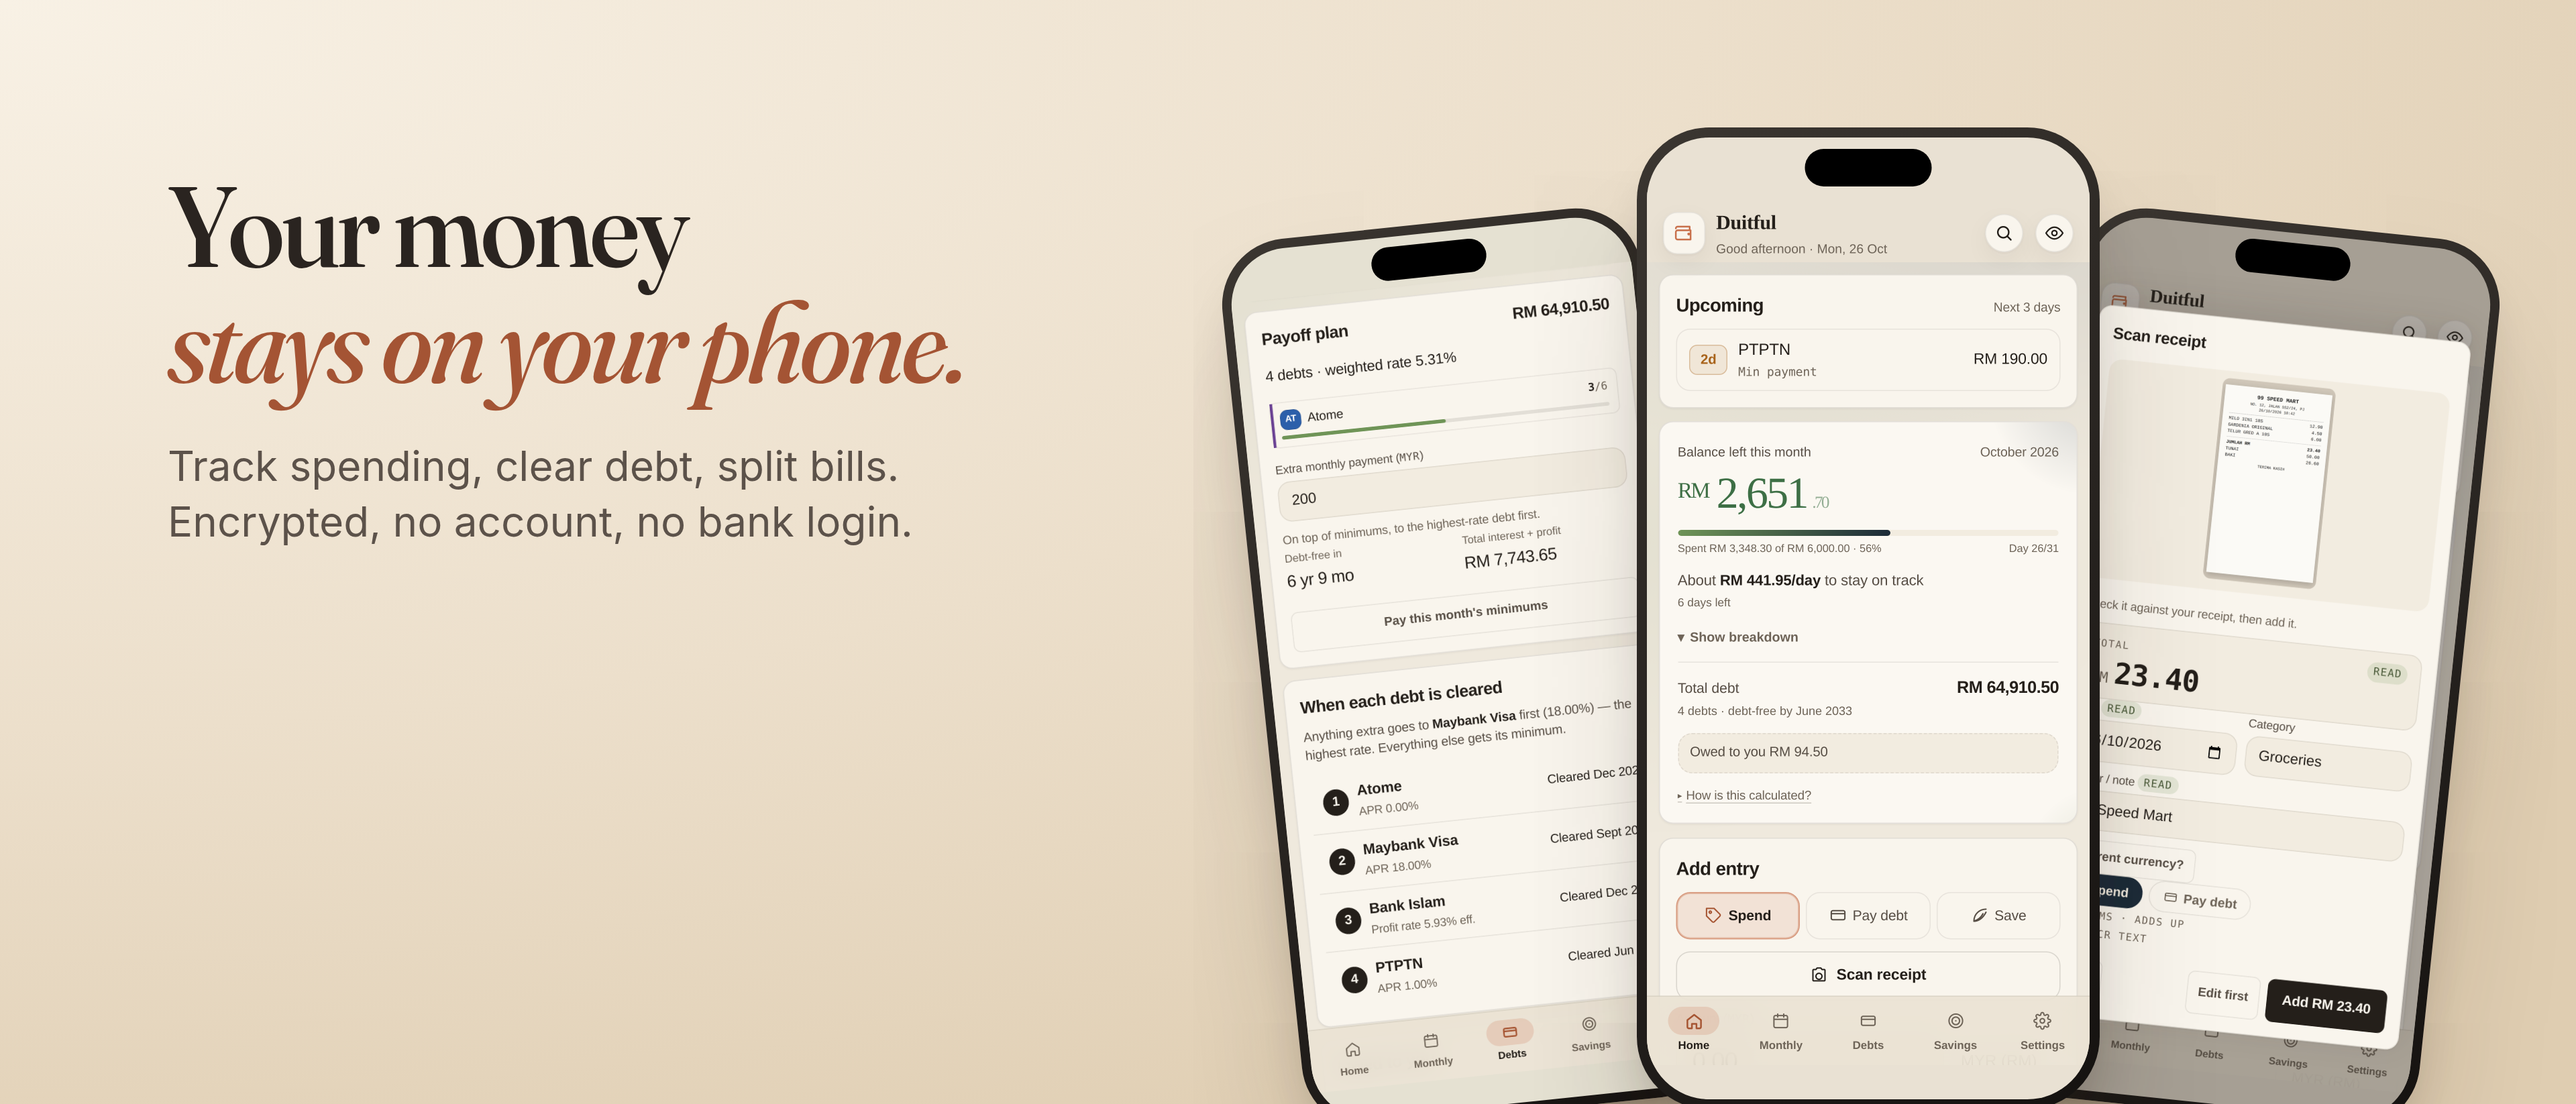
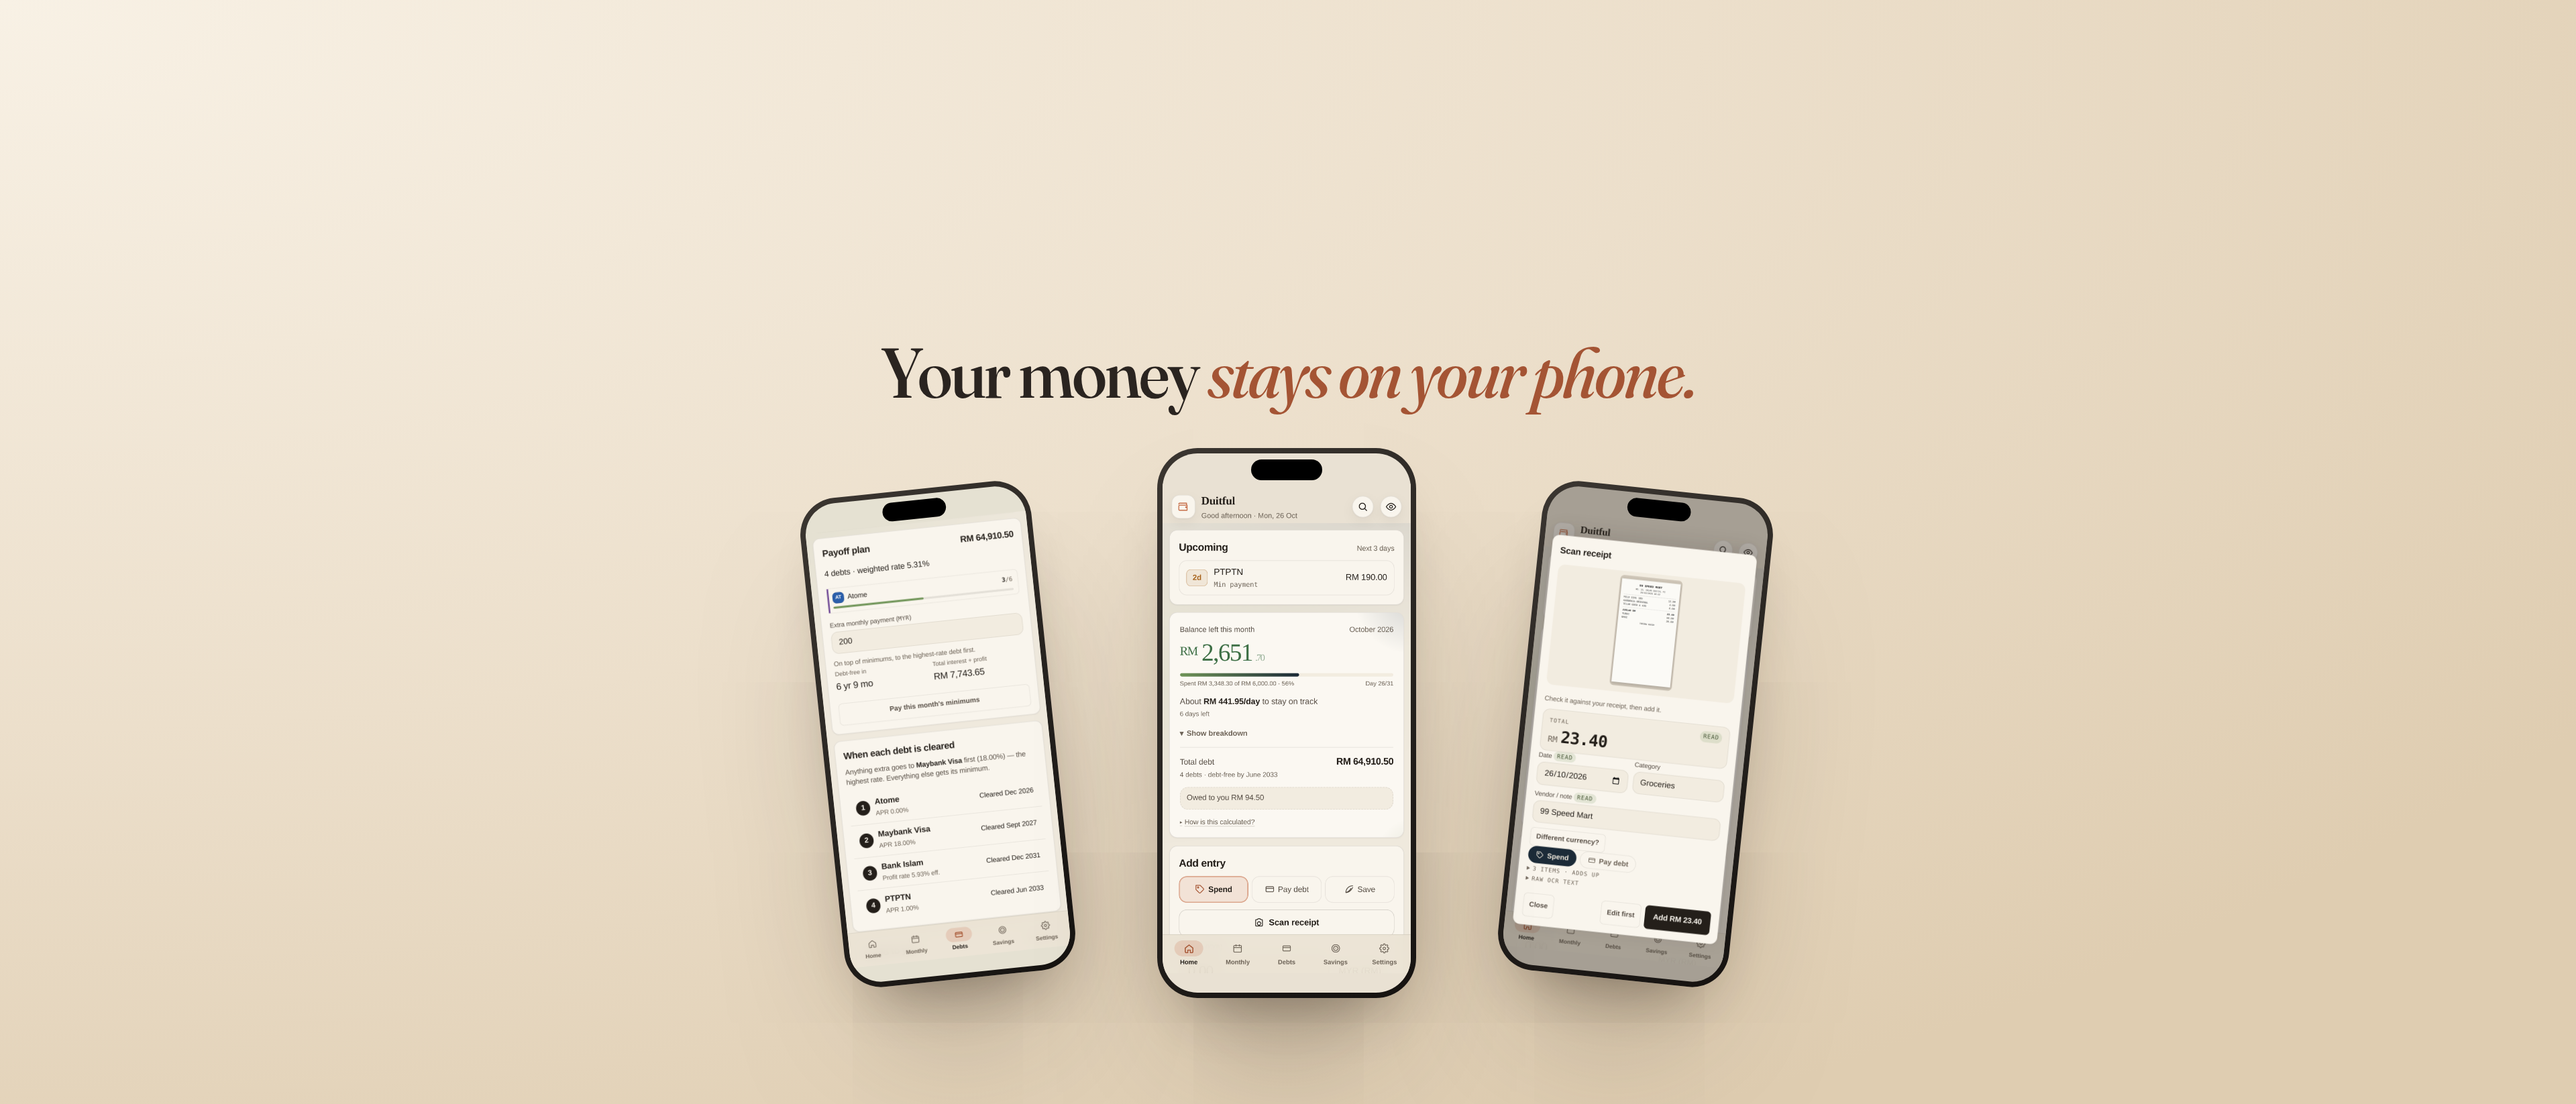
Creative assets: lay out on Apple's Art Safe Areas; add 16:9 universal
Apple's Creative Assets template (Figma) marks an Art Safe Area per
frame, the only region guaranteed to survive each device's crop:
header 1646x661 at (1097,493), search 2168x1030 at (836,765),
universal 1402x962 at (1921,660). The first header put its headline at
the far left and the search card its headline at the top, both outside
it. Now the line and the readable top of each screen sit inside the
safe area, centred; phones' lower halves and the background are bleed.
Adds universal-16x9.png (5244x2950) usable for both placements.
DEBUG=1 draws the safe box.

Claude-Session: https://claude.ai/code/session_01MxM2QQfV3Bj1xYaZMMnaMN

diff --git a/marketing/app-store/README.md b/marketing/app-store/README.md
@@ -60,19 +60,23 @@ App Store has no equivalent slot. Regenerate with
 
 ## Creative assets (optional, iOS/iPadOS 27+)
 
-From [App Store asset best practices](https://developer.apple.com/app-store/asset-best-practices/)
-and the creative-asset specs. In `creative/`, regenerate with
-`node marketing/app-store/scripts/creative-assets.mjs` after `capture.mjs`:
+From [App Store asset best practices](https://developer.apple.com/app-store/asset-best-practices/),
+the creative-asset specs, and Apple's **Creative Assets template** (Figma),
+whose green "Art Safe Area" in each frame is the only region guaranteed to
+survive every device's crop. In `creative/`; regenerate with
+`node marketing/app-store/scripts/creative-assets.mjs` after `capture.mjs`
+(`DEBUG=1` draws the safe box for checking):
 
-| File | Placement | Size | Idea |
-|---|---|---|---|
-| `header-21x9.png` | Product page header | 3840 × 1646 (21:9) | "Your money *stays on your phone.*" + Payoff / Home / Scan |
-| `search-3x2.png` | Search results | 3840 × 2560 (3:2, the max) | "Be *duitful* with your duit." + Payoff / Home / Split |
+| File | Placement | Size | Art Safe Area (x, y, w × h) | Idea |
+|---|---|---|---|---|
+| `header-21x9.png` | Product page header | 3840 × 1646 | 1097, 493, 1646 × 661 | "Your money *stays on your phone.*" + Payoff / Home / Scan |
+| `search-3x2.png` | Search results | 3840 × 2560 | 836, 765, 2168 × 1030 | "Be *duitful* with your duit." + Payoff / Home / Split |
+| `universal-16x9.png` | Either (one asset for both) | 5244 × 2950 | 1921, 660, 1402 × 962 | as search |
 
-Both: PNG, no alpha; one clear idea; real app interface; no prices, URLs,
-awards or other platforms. The header's lower-left is kept quiet because the
-store draws the app name and Get button over the header.
+The headline and the readable top of each screen sit inside the safe area;
+the phones' lower halves and the warm background are bleed. All: PNG, no
+alpha; real app interface; no prices, URLs, awards or other platforms.
 Upload: App Store Connect → the app version → Product Page Information →
-**Header and Search Results** (or Asset Library), then check them in
-**Preview** on iPhone and iPad before submitting — the preview is the only
-place the system overlay and safe area can be seen exactly.
+**Header and Search Results** (or Asset Library). Use either the
+header + search pair, or the universal asset for both, then check
+**Preview** on iPhone and iPad before submitting.
